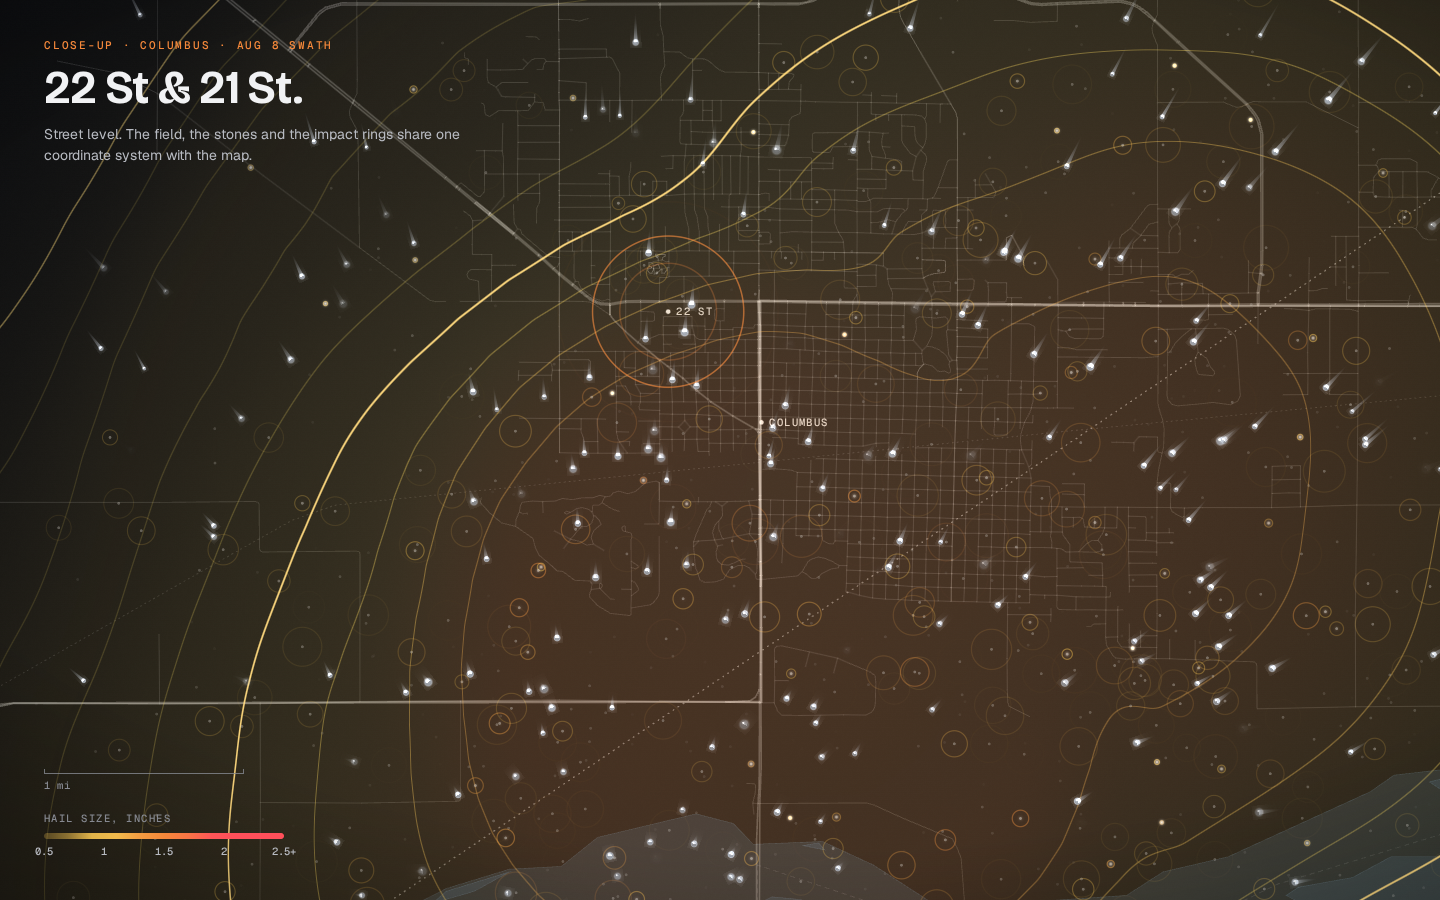
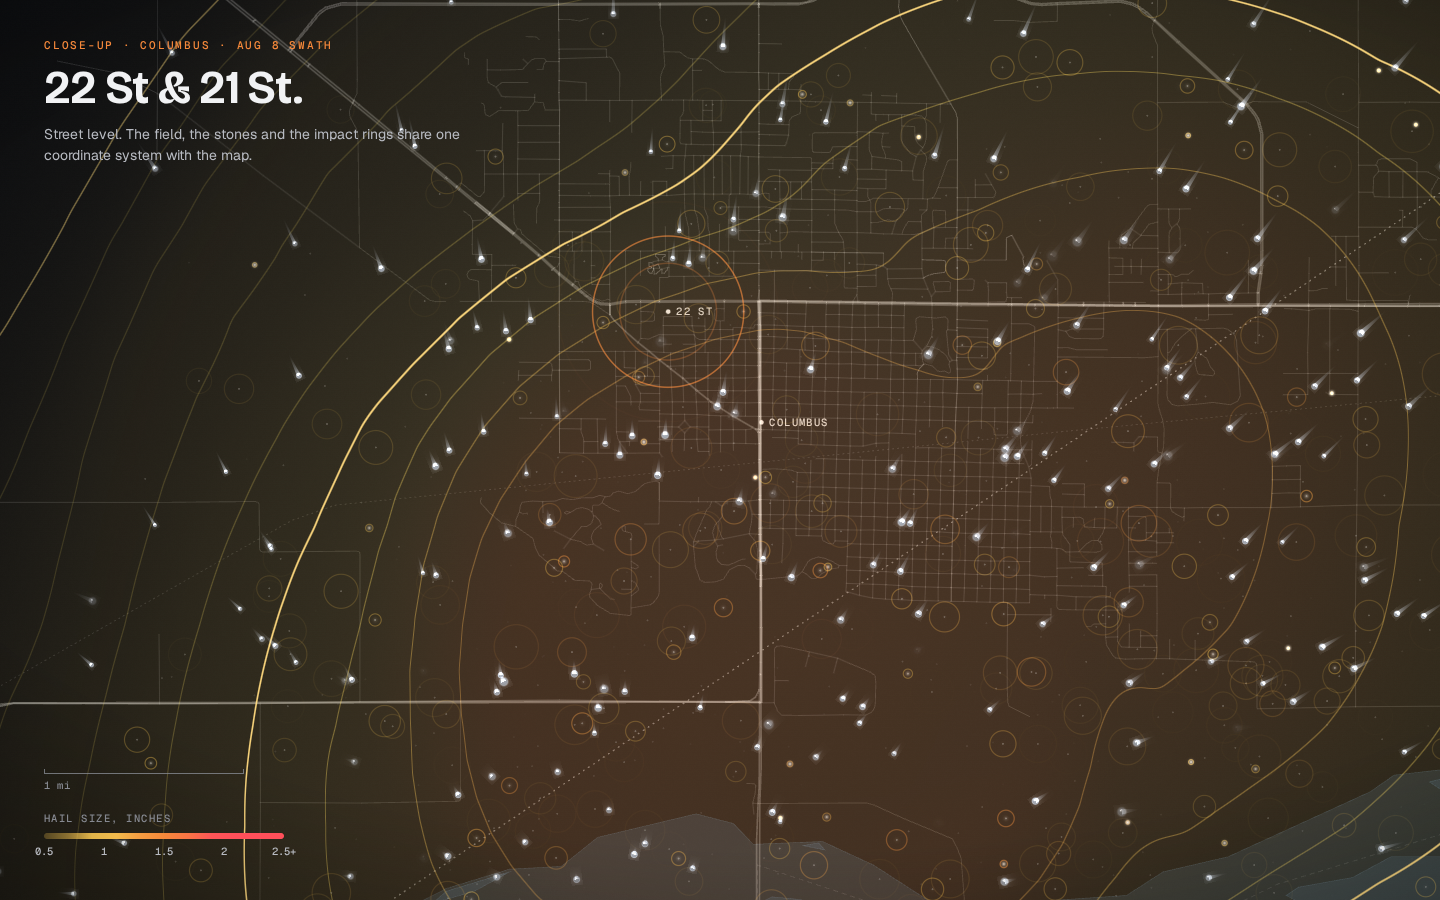
Claude's Aldaba: WebGL hail kit (burning swath field, falling hail, knock rings, 2D fallback)
Claude-Session: https://claude.ai/code/session_01AFT5CWjL9atnV2a1EM6JUz

diff --git a/docs/design/claudes-aldaba/js/lib/hailgl.js b/docs/design/claudes-aldaba/js/lib/hailgl.js
@@ -1,14 +1,33 @@
-/* HailGL: storm graphics for Claude's Aldaba. Raw WebGL (WebGL2, WebGL1 fallback, Canvas2D fallback), no libraries.
+/* HailGL 1.0: storm graphics for Claude's Aldaba. Raw WebGL2 (WebGL1 fallback, Canvas2D fallback), no libraries.
+ * Nothing here throws into the caller: failures console.warn once and degrade (GL -> 2D -> no-op).
  *
- *   var kit = HailGL.create(canvasOrGl, {dpr, theme:'dark'|'light'|{...colors}});
- *   kit.field.setField(HailGL.fieldFromStorms({storms, areas, bounds, res, project}));
- *   kit.field.draw(m, {t, opacity, reveal, contours, glow, dim});
- *   kit.hail.spawn({count, sampler: HailGL.sampler(field), fall:{height, speed}, dur});  kit.hail.draw(m, {t});
- *   kit.rings.add(x, y, {t0, color, size, life});  kit.rings.draw(m, t);
+ * World units are the caller's. m = column-major mat3 world -> clip (affine or projective); HailGL.camera() makes one.
  *
- * World units are the caller's. m = column-major mat3 world -> clip (affine or projective).
- * Field texels are packed as RGBA8: R/G = hail inches (16-bit hi/lo, linear so hardware filtering stays exact),
- * B = arrival 0..1 (reveal), A = wide blur of the field (glow). Nothing here throws into the caller.
+ * var kit = HailGL.create(canvasOrGl, {dpr, theme:'dark'|'light'|{gold,orange,red,hot,ice,ring,glow,fill,contours,ink,stops},
+ *                                      webgl: 0|1 (force 2D / WebGL1), restoreState: true, maxRings: 4096})
+ *   kit.mode = 'webgl2'|'webgl1'|'2d'|'none';  kit.ok;  kit.resize(cssW, cssH, dpr<=2);  kit.dispose();  kit.setTheme(t)
+ *   kit.field.setField(field, {glowRadius})   field = {x0,y0,x1,y1,w,h,data: Float32Array inches (row 0 = y0), arrival?}
+ *   kit.field.draw(m, {t, opacity=1, dim=0, reveal (0..1 along arrival, omit = all), feather=.025, frontWidth=.06, front=1,
+ *                      ghost=0, contours=true, glow=true, fill=1, relief=1, sheen=1, step=.1, indexStep=.5,
+ *                      lineWidth=.8, indexWidth=1.4 (css px), lightAz, lightEl, blend:'normal'|'multiply'|'add', theme})
+ *   kit.hail.spawn({count, sampler: () => [x, y, sizeIn, u?], fall:{height=.2 (view heights), speed=.25 (heights/s) | dur},
+ *                   t0=0, dur=8 (u -> landing time t0 + u*dur), lag=.04, loop=0 (seconds; >0 repeats), phase, seed, append})
+ *   kit.hail.draw(m, {t, tilt=1, persp=.22, vanish=[0,.1] (clip), wind=[.05,0], scale=1.1 (css px radius per inch),
+ *                     streak=.085 (s of motion blur), rings=true, ringSize=14, ringLife=1.1, residue=4 (s), opacity, dim})
+ *   kit.rings.add(x, y, {t0, color='#f5883a', size=36 (css px), life=1.6, width=1.3, echo=1, alpha=1}) -> index
+ *   kit.rings.draw(m, t | {t, opacity});  kit.rings.clear()
+ *
+ * HailGL.fieldFromStorms({storms:[{id,date,max,path:[[lon,lat]..]}], areas:[{st,hail,ring}], bounds:[w,s,e,n], res=512,
+ *                         project, arrival:'path'|'season', splitMi=40}) -> field + {peak, mpu, paths}
+ * HailGL.sampler(field, {min=.6, gamma=1.3, seed, size:[.45,1.02]}) -> () => [x, y, sizeIn, arrival]
+ * HailGL.frontAt(field, reveal, stormId?, out?) -> [x, y, dirX, dirY]   (where the burning front is, for markers)
+ * HailGL.draw2DFallback(ctx, field, mat3 | (x,y)=>[px,py], {reveal, opacity, contours, glow, theme, dpr})
+ * HailGL.rampColor(v, theme?, alpha?), HailGL.legendGradient(theme?, from, to), HailGL.camera(cx, cy, pxPerUnit, w, h, out?)
+ *
+ * Field texels: RGBA8, R/G = inches/4 as 16-bit hi/lo (linear, so filtering stays exact), B = arrival, A = wide blur (glow);
+ * a second RGBA8 texture holds the gradient for screen-space relief lighting. Contours come from fwidth on a bicubic
+ * (B-spline, 4 taps) sample, so lines stay 1 css px and smooth at any zoom. Hail impacts are GPU-only (no CPU per landing).
+ * GL state: draws bind their own VAO/program/textures (units 0-1), set blend, and restore what they touched.
  */
 (function (root) {
   'use strict';
@@ -597,7 +616,7 @@
     '  float a0 = smoothstep(uStops.x, uStops.y, v);',
     '  float big = smoothstep(uStops.y, uStops.w + 0.6, v);',
     '  vec3 col = hglRamp(v, uStops, uGold, uOrange, uRed);',
-    '  col = mix(col, uHot, front * 0.55 * a0);',
+    '  col = mix(col, uHot, front * 0.42 * a0);',
     '  float fillA = a0 * mix(0.06, 0.36, big * big) * uFill;',
     '  float gate = smoothstep(uStops.x - 0.07, uStops.x - 0.025, v);',
     '  float minor = iso(v, uStep, uLineW, 0.42) * gate;',
@@ -618,7 +637,7 @@
     '  C = idxCol * ia + C * (1.0 - ia); A = ia + A * (1.0 - ia);',
     '  float core = pow(smoothstep(0.9, 2.7, v), 1.3) * 0.5;',
     '  float halo = smoothstep(0.2, 1.4, gv) * (1.0 - a0 * 0.4) * 0.17;',
-    '  vec3 Em = col * ((core * shade + halo) * uGlow + sweep * 0.07 * a0) + mix(col, white, 0.3) * spec * a0 * 0.3 * uGlow + uHot * front * (0.12 + 0.55 * a0) * gate;',
+    '  vec3 Em = col * ((core * shade + halo) * uGlow + sweep * 0.07 * a0) + mix(col, white, 0.3) * spec * a0 * 0.3 * uGlow + uHot * front * (0.1 + 0.45 * a0) * gate;',
     '  float k = mix(uGhost, 1.0, vis) * edge * uOpacity;',
     '  if (uInk > 0.5) { C = C * k; A = A * k; }',
     '  else { C = (C + Em) * k; A = A * k; }',
@@ -1250,7 +1269,7 @@
       o = o || EMPTY;
       if (!S.hailCount) return;
       var t = num(o.t, S.now), D = S.hail, W = ctx.canvas.width, H = ctx.canvas.height, dpr = S.dpr, drawn = 0;
-      var hgt = num(o.height, S.fallH) * H, persp = num(o.persp, 0.32), scale = num(o.scale, 2.3);
+      var hgt = num(o.height, S.fallH) * H, persp = num(o.persp, 0.22), scale = num(o.scale, 1.1);
       ctx.save(); ctx.setTransform(1, 0, 0, 1, 0, 0);
       for (var i = 0; i < S.hailCount && drawn < 2500; i++) {
         var j = i * 8, fall = S.fall * D[j + 5], tl = D[j + 3];
@@ -1260,9 +1279,9 @@
         if (o.rings !== false && since >= 0 && since < 1.1) {
           var e = 1 - Math.pow(1 - since / 1.1, 3);
           rampInto(S.pal, D[j + 2], col);
-          ctx.strokeStyle = cssRGB(col, Math.pow(1 - since / 1.1, 1.7) * 0.7);
+          ctx.strokeStyle = cssRGB(col, Math.pow(1 - since / 1.1, 1.8) * 0.4);
           ctx.lineWidth = dpr * 0.8;
-          ctx.beginPath(); ctx.arc(gx, gy, (1 + e * 16 * (0.45 + 0.4 * D[j + 2])) * dpr, 0, 6.2832); ctx.stroke();
+          ctx.beginPath(); ctx.arc(gx, gy, (1 + e * num(o.ringSize, 14) * (0.45 + 0.4 * D[j + 2])) * dpr, 0, 6.2832); ctx.stroke();
         }
         var hh = toLand / fall;
         if (hh <= 0 || hh > 1) continue;
@@ -1297,7 +1316,7 @@
         spawn: guard('2d.spawn', function (o) {
           o = o || EMPTY;
           var count = clamp(Math.round(num(o.count, 2000)), 0, 200000), rnd = rng(num(o.seed, 1234)), fall = o.fall || EMPTY;
-          S.fallH = num(fall.height, 0.34); S.fall = num(fall.dur, S.fallH / num(fall.speed, 0.4)); S.loop = num(o.loop, 0);
+          S.fallH = num(fall.height, 0.2); S.fall = num(fall.dur, S.fallH / num(fall.speed, 0.25)); S.loop = num(o.loop, 0);
           var t0 = num(o.t0, 0), dur = num(o.dur, 8), D = S.hail = new Float32Array(count * 8);
           for (var i = 0; i < count; i++) {
             var s = o.sampler(i) || EMPTY, j = i * 8, u = s.length > 3 && !(S.loop > 0) ? s[3] : rnd();

diff --git a/docs/design/claudes-aldaba/dev/hailgl-demo.html b/docs/design/claudes-aldaba/dev/hailgl-demo.html
@@ -250,6 +250,7 @@ h1 { font: 650 46px/1.02 "Bricolage", "Geist", sans-serif; letter-spacing: -.025
       setClock(r);
     } else if (MODE === 'season') {
       FO.reveal = Math.min(1.1, (t % 14) / 12);
+      FO.frontWidth = 0.012; FO.feather = 0.006; // 18 storms share one timeline: a thinner burning edge per storm
       if (!ONLY || ONLY === 'field') kit.field.draw(M, FO);
     } else {
       FO.reveal = undefined;
